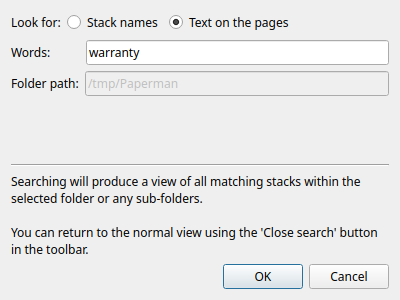
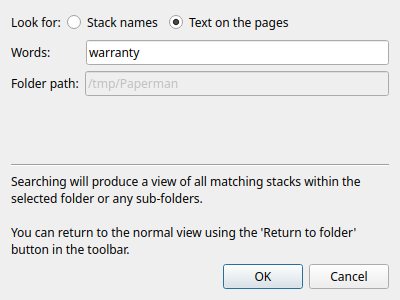
doc: Add Filing and Finding pages to the user guide
The user guide describes the window but not how to file papers in it or
find them again: moving stacks, putting pages together and apart,
removing pages, duplicating, naming, how dates are used, folders, the
filter, searching by name and by text, and how the text of pages is
read.

Add a Filing page, with the menu of things to do with a stack and a
table of what each does, moving stacks by dragging or by name, putting
pages together and apart, removing pages, duplicating, names, how
Paperman uses the years and months in folders' names, and the menu of
things to do with a folder. Add a Finding page, on the filter,
searching by name and by the words on the pages, going from a result
to its folder, and reading the text of pages. Take their pictures from
the demo corpus, and retake those of the search dialog, which now names
the button as the toolbar does.

Co-developed-by: Claude Opus 5.5 (1M context) <noreply@anthropic.com>

Changed region(s): [[0.03, 0.81, 0.33, 0.87], [0.66, 0.75, 0.96, 0.81]]

diff --git a/doc/filing.rst b/doc/filing.rst
@@ -1,0 +1,208 @@
+Filing
+======
+
+A stack is a file in a folder, and filing is moving it to the right
+folder, putting pages together or apart, and naming things so that they
+can be found again. Paperman lets you do each of these, and anything
+done to stacks can be undone with **Edit > Undo** (Ctrl+Z).
+
+The stack menu
+--------------
+
+Right-click a stack in the stack pane for the things which can be done
+with it, or with all the stacks selected:
+
+.. image:: images/stack-menu.png
+   :alt: The menu of things to do with a stack
+
+.. list-table::
+   :widths: 30 70
+
+   * - **Locate folder** (Ctrl+Shift+L)
+     - In the results of a search, go to the folder the stack is in (see
+       :doc:`finding`)
+   * - **Stack** (Ctrl+G)
+     - Put the stacks selected together into one: the pages of the others
+       go into the first one selected, just before the page it shows
+   * - **Unstack page** (Ctrl+I)
+     - Take the page shown out of its stack, into a stack of its own
+   * - **Unstack all** (Ctrl+U)
+     - Split each stack selected into a stack for each page
+   * - **Duplicate** (Ctrl+D)
+     - Make a copy of each stack selected
+   * - **Move to folder** (Ctrl+M)
+     - Move the stacks selected to another folder, chosen by typing part
+       of its name (see below)
+   * - **Delete stack** (Del)
+     - Move the stacks selected to the repository's trash, after asking.
+       Undo brings them back
+   * - **Rename stack** (F2)
+     - Give the stack a new name
+   * - **Rename page** (Shift+F2)
+     - Give the page shown a new name
+   * - **Read text (OCR)**
+     - Redo the OCR, reading the text of the stack's pages again (see
+       :doc:`finding`)
+   * - **Duplicate...**
+     - Copy a page, or a stack in another form (see `Duplicating`_)
+   * - **Email...**
+     - Send the stacks by email
+
+Moving stacks
+-------------
+
+There are two ways to move stacks to another folder:
+
+- **Drag** them onto the folder in the folder pane:
+
+  .. image:: images/drag-to-folder-labelled.png
+     :alt: Dragging a stack from the stack pane onto a folder in the folder pane
+     :target: _images/drag-to-folder-labelled.png
+
+- **Move to folder** (Ctrl+M) asks for the folder: type part of its
+  name and pick it from the list. Tick **Copy instead of moving** to
+  leave the stacks where they are and put copies in the folder.
+
+  .. image:: images/move-to-folder.png
+     :alt: Moving a stack, typing tax to find the taxes folder
+
+Within the stack pane, drag a stack to put it where you want it. **Tools
+> Arrange** lines the stacks up by name or by date instead.
+
+Putting pages together and apart
+--------------------------------
+
+- A letter scanned in two goes, or a bill and its receipt, become one
+  stack with **Stack** (Ctrl+G): select the stack to keep first, turned
+  to the page the others should go before, then the others, and press
+  Ctrl+G.
+- A page which belongs elsewhere comes out with **Unstack page**
+  (Ctrl+I), as a stack of its own, which can then be stacked with another.
+- A pile of single sheets scanned as one stack comes apart with
+  **Unstack all** (Ctrl+U).
+- The pages of a stack are put in a new order with the reorder tool in
+  the page toolbar (see :doc:`desktop`): select pages, then drag them
+  to where they should go.
+- A page not wanted, such as a blank one, is taken out as below.
+
+Removing pages
+--------------
+
+Each page in the page list has a green tick at its foot, which marks it
+to be kept. To take a page out of a stack:
+
+#. Click the page's tick. It turns into a red mark, showing that the
+   page is to be removed. Click it again to keep the page after all.
+#. Mark any other pages to go in the same way.
+#. Press **Save** in the page toolbar. The pages marked are taken out of
+   the stack.
+
+Until then nothing is lost: **Revert** forgets the marks, along with any
+other changes not saved. Blank pages from a scan can come marked
+already, if the scan settings say to leave them out (see
+:doc:`scanning`).
+
+.. image:: images/page-remove-labelled.png
+   :alt: The preview pane, with one page kept and one marked to be removed
+   :target: _images/page-remove-labelled.png
+
+Duplicating
+-----------
+
+**Duplicate** (Ctrl+D) copies the stacks selected as they are. The
+**Duplicate...** submenu, in a stack's right-click menu, copies part of a
+stack, or a stack in another form. Each copy goes beside the original,
+named after it.
+
+.. image:: images/duplicate-menu.png
+   :alt: The Duplicate submenu
+
+.. list-table::
+   :widths: 35 65
+
+   * - **Duplicate page** (Ctrl+Shift+I)
+     - Copy the page shown into a stack of its own
+   * - **as Max** (Ctrl+Shift+D)
+     - Copy each stack as a ``.max`` stack, which suits one which is a
+       PDF or JPEG
+   * - **as PDF** (Ctrl+Shift+P)
+     - Copy each stack as a PDF, with the text of its pages if it has
+       been read
+   * - **even pages only**, **odd pages only**
+     - Copy just the even or the odd pages into a new stack
+   * - **as JPEG** (Ctrl+Shift+J)
+     - Copy each page as a JPEG picture
+   * - **Unfold booklet**
+     - For a booklet scanned two pages to a sheet: split each page down
+       the middle and put the halves in reading order, in a new stack
+       named after the original with ``_unfold``
+
+Names
+-----
+
+A stack scanned without a name is named for the day, such as
+``20-Oct-26``, and its pages for the date, such as ``20_October_2026``.
+
+To rename a stack, select it and press **F2**. To rename the page shown,
+press **Shift+F2**. Give a stack a name which says what it is, such as
+*power bill*: searching by name looks at these names.
+
+Dates
+-----
+
+Paperman looks for dates in the names of folders, so that papers filed
+by date are easy to keep up with:
+
+- A **year** is four digits from 1900 to 2099 on their own in a name,
+  such as ``2026`` or ``taxes 2025``.
+- A **month** is two digits and the first three letters of its name,
+  ``01jan`` to ``12dec``, such as ``bills/2026/10oct``. The digits keep
+  the months in order when the folders are sorted by name.
+
+With those in the names:
+
+- The scan panel's folder list, before anything is typed, puts this
+  month's folders first, then this year's, then those with no date, and
+  leaves out those named for another year or month. Typing lists every
+  folder which matches, old ones last.
+- When there is a folder for last month but not this one, the list
+  offers to make it, as ``<Add: bills/2026/11nov>``; choosing that makes
+  the folder, ready to scan into. A folder for last year, with no month,
+  is offered for this year in the same way.
+- **View > Filter year/month** (Ctrl+Shift+F) hides, in the folder pane,
+  the folders named for another year or month.
+- **Edit > Go to folder** (Ctrl+F) finds dated folders like any others,
+  so typing ``jun`` goes to June's.
+
+.. image:: images/scan-folders.png
+   :alt: The scan panel listing this month's folder first
+
+Stacks are dated too:
+
+- A stack scanned without a name is named for the day it was scanned,
+  and its pages for the date (see `Names`_).
+- **Tools > Arrange > by Date** lines the stacks up by when each was last
+  changed.
+
+Folders
+-------
+
+Right-click a folder in the folder pane for the things which can be done
+with it:
+
+.. image:: images/folder-menu.png
+   :alt: The menu of things to do with a folder
+
+- **Search folder** (Ctrl+S) searches the folder and those inside it
+  (see :doc:`finding`).
+- **New subdirectory** and **Rename** make and rename folders.
+  **Delete** is not done in Paperman: delete the folder with your file
+  manager, then use **Refresh**.
+- **Refresh** and **Refresh cache** read the folders afresh, after
+  changes made outside Paperman.
+- **Add repository** and **Remove repository** add a folder of papers to
+  the folder pane or take one away; removing a repository leaves its
+  files alone.
+
+Folders named for a year and a month, such as ``bills/2026/10oct``, are
+the ones the scan panel suggests (see :doc:`getting-started`).

diff --git a/doc/finding.rst b/doc/finding.rst
@@ -1,0 +1,65 @@
+Finding
+=======
+
+Paperman finds stacks by their names and by the words on their pages.
+
+The filter
+----------
+
+To pick a stack out of a busy folder, type part of its name in the
+**Filter** box above the stack pane. Only the stacks whose names have
+those letters in them are shown; **Cancel filter** shows them all again.
+
+.. image:: images/filter.png
+   :alt: A month's bills filtered by typing bill, showing the power, gas and water bills
+
+Searching
+---------
+
+**Edit > Search** (Ctrl+S), or **Search folder** in a folder's right-click
+menu, searches the folder chosen and every folder inside it.
+
+.. image:: images/search-dialog.png
+   :alt: The search dialog, looking for the word warranty on the pages
+
+Look for **Stack names** to find stacks by name, where part of a name is
+enough, or **Text on the pages** to find them by the words on their
+pages. When looking for words, the last one may be the start of a word,
+so *warr* finds *warranty*.
+
+The stack pane then shows the stacks found, from whichever folders they
+are in, with a bar saying what was looked for. Select one to see the page
+the words are on in the preview pane.
+
+.. image:: images/search-results.png
+   :alt: The stacks with warranty on a page, the manual selected at its warranty page
+
+- **Locate folder** (Ctrl+Shift+L), in a stack's right-click menu, goes
+  to the folder the stack is in, with the stack selected.
+- **Return to folder** goes back to the folder as it was.
+
+Searching a folder on a server asks the server, which answers as it can:
+if it is still reading the text of its stacks, the bar says that some
+may be missing.
+
+Reading the text of pages
+-------------------------
+
+Searching by words needs the text of the pages, which Paperman reads
+from each page's picture (optical character recognition, or OCR) with
+``tesseract``; see :doc:`install` for adding it.
+
+- Once a scan is saved, Paperman reads its pages in the background. The
+  option **Read the text of scanned pages (OCR)** in **File > Options**
+  turns this off.
+- **Read text (OCR)**, in a stack's right-click menu, reads stacks scanned
+  before, or with the option off.
+- The text pane shows the text read from the page shown, and its **OCR**
+  button reads that page again (see :doc:`desktop`).
+- The PDFs Paperman makes keep the text, so other programs can search
+  them and the text can be copied from them.
+
+A server reads the stacks it holds itself, when it is run with
+``--read-pages`` (see :doc:`server`). From the command line,
+``paperman --ocr`` reads every stack in a folder and ``paperman
+--search`` searches what has been read (see :doc:`cli`).

diff --git a/doc/index.rst b/doc/index.rst
@@ -16,6 +16,8 @@ Paperman
 
    getting-started
    desktop
+   filing
+   finding
    scanning
    cli
    server
